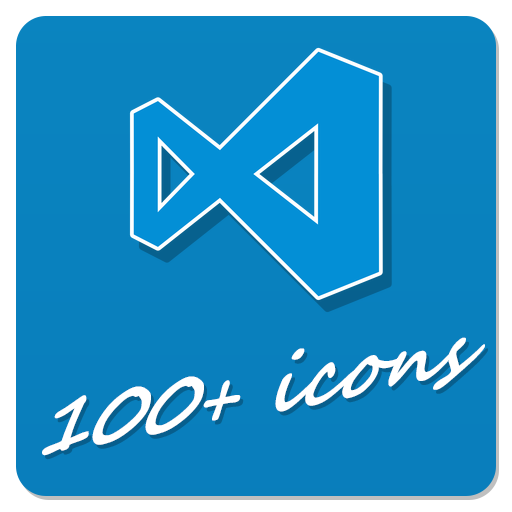
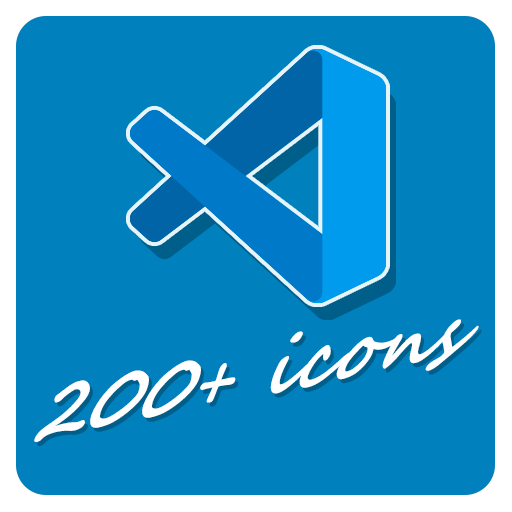
Updates

diff --git a/README.md b/README.md
@@ -1,6 +1,6 @@
 # VSCode Great Icons
 
-A big pack of icons (100+) for your files.
+A big pack of icons (200+) for your files.
 
 ![preview](https://raw.githubusercontent.com/EmmanuelBeziat/vscode-great-icons/icons-test/icons.jpg)
 

diff --git a/CHANGELOG.md b/CHANGELOG.md
@@ -1,3 +1,8 @@
+# v2.1.78 (2021.06.23)
+
+# New vector icons
+# Updated logo!
+
 # v2.1.77 (2021.06.06)
 
 * Extended license key icon to "license_mit" and "license_apache" files. (thanks @valerioageno)
